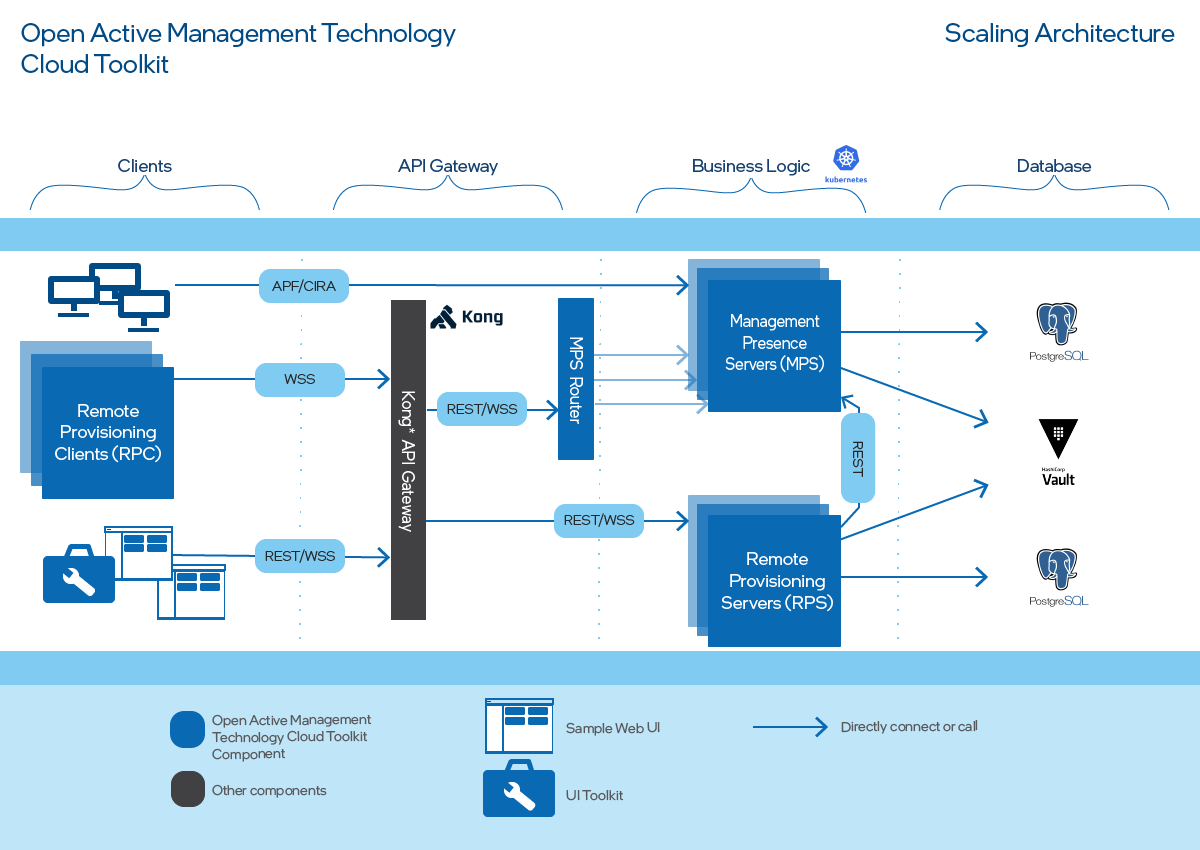
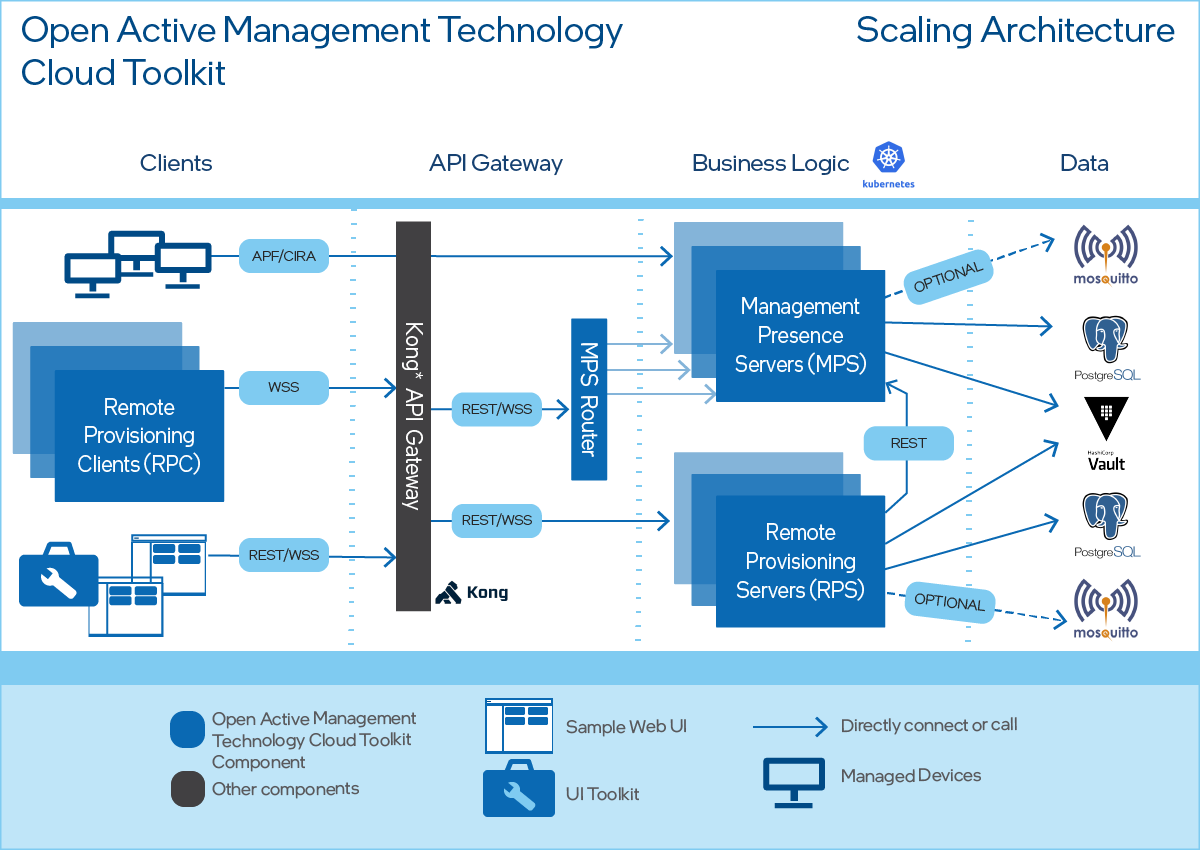
docs: adding explanation about pws and new scaling pic

diff --git a/docs/Microservices/overview.md b/docs/Microservices/overview.md
@@ -84,6 +84,28 @@ For more information about power states supported by the REST APIs, see [Intel®
 
 Intel® AMT enables remote management of a device, even when the OS isn't running, through KVM over IP support. No additional equipment is needed for this feature.  With KVM control, IT administrators can access and update PCs and devices as if they were onsite. It eliminates the need for remote KVM switches and other hardware. 
 
+## Passwords
+
+There are four levels of passwords: 
+
+1. **Intel® Manageability Engine BIOS Extensions (MEBX) Password:** Intel® MEBX enables the configuration of the Intel Manageability Engine (ME) platform. The Intel® MEBX password along with other configuration details is set on the managed device in the BIOS. For details about entering the Intel® MEBX BIOS settings, see [MEBX Unprovision](../Topics/MEBX/unprovision.md).
+
+2. **Sample Web UI Password:** The system administrator uses this password on the development system when logging into the Sample Web UI. To login, see [Login to Sample Web UI](../General/loginToRPS.md)
+   
+3. **CIRA Password:** CIRA enables a CIRA-capable edge device (i.e., managed device) to initiate and establish a persistent connection to the MPS. Use this password when you [Create a CIRA Config](../General/createCIRAConfig.md). 
+   
+4. **Provisioning Certificate Password:** Provisioning involves setting up a remote client, system, or device, on a network using a digitally signed certificate as a security credential. Use this password when you [Create an AMT Profile](../General/createProfileACM.md).
+
+Multiple passwords enhance the security of Open AMT Cloud Toolkit.
+
+| What     |  Where    | Security |  Default Values | Modify |
+| :-----------| :-------------- |:-------------- | :-------------- | :-------------- |
+| **Intel MEBX Password** |Managed devices | Provisioning | admin | In BIOS |
+|**Sample Web UI Password** | System running MPS and RPS (i.e., development system) | Administrative Management | Username: standalone Password: G@ppm0ym|.env file|
+| **CIRA Password** | Development system  | CIRA Profile  | Username: standalone Password: G@ppm0ym| .env file |
+| **Provisioning Certificate Password** | Development system | Certificate Usage | Generating a random password is strongly advised. | Vault |
+
+
 ## Log Files
 Each microservice has an associated log file which can contain helpful debug information. Use `docker logs` to print log information to the terminal.
 
